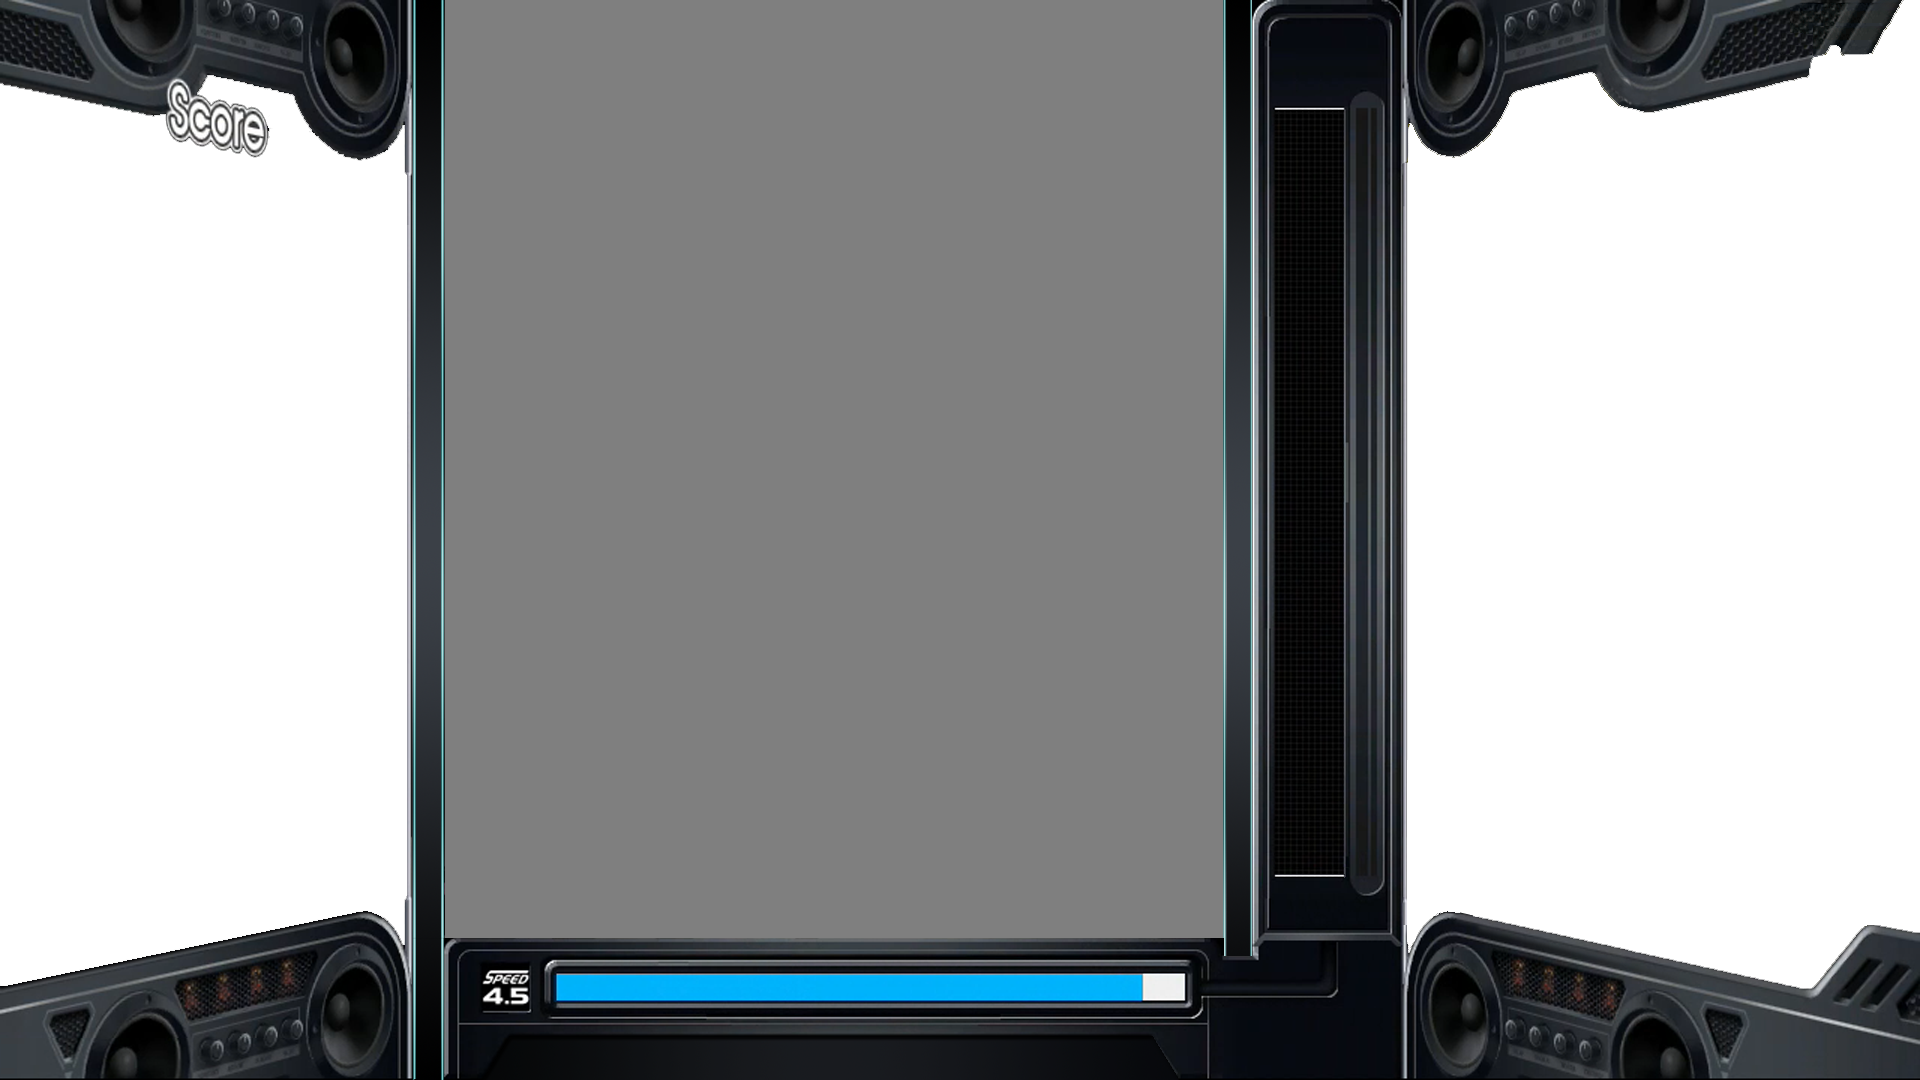
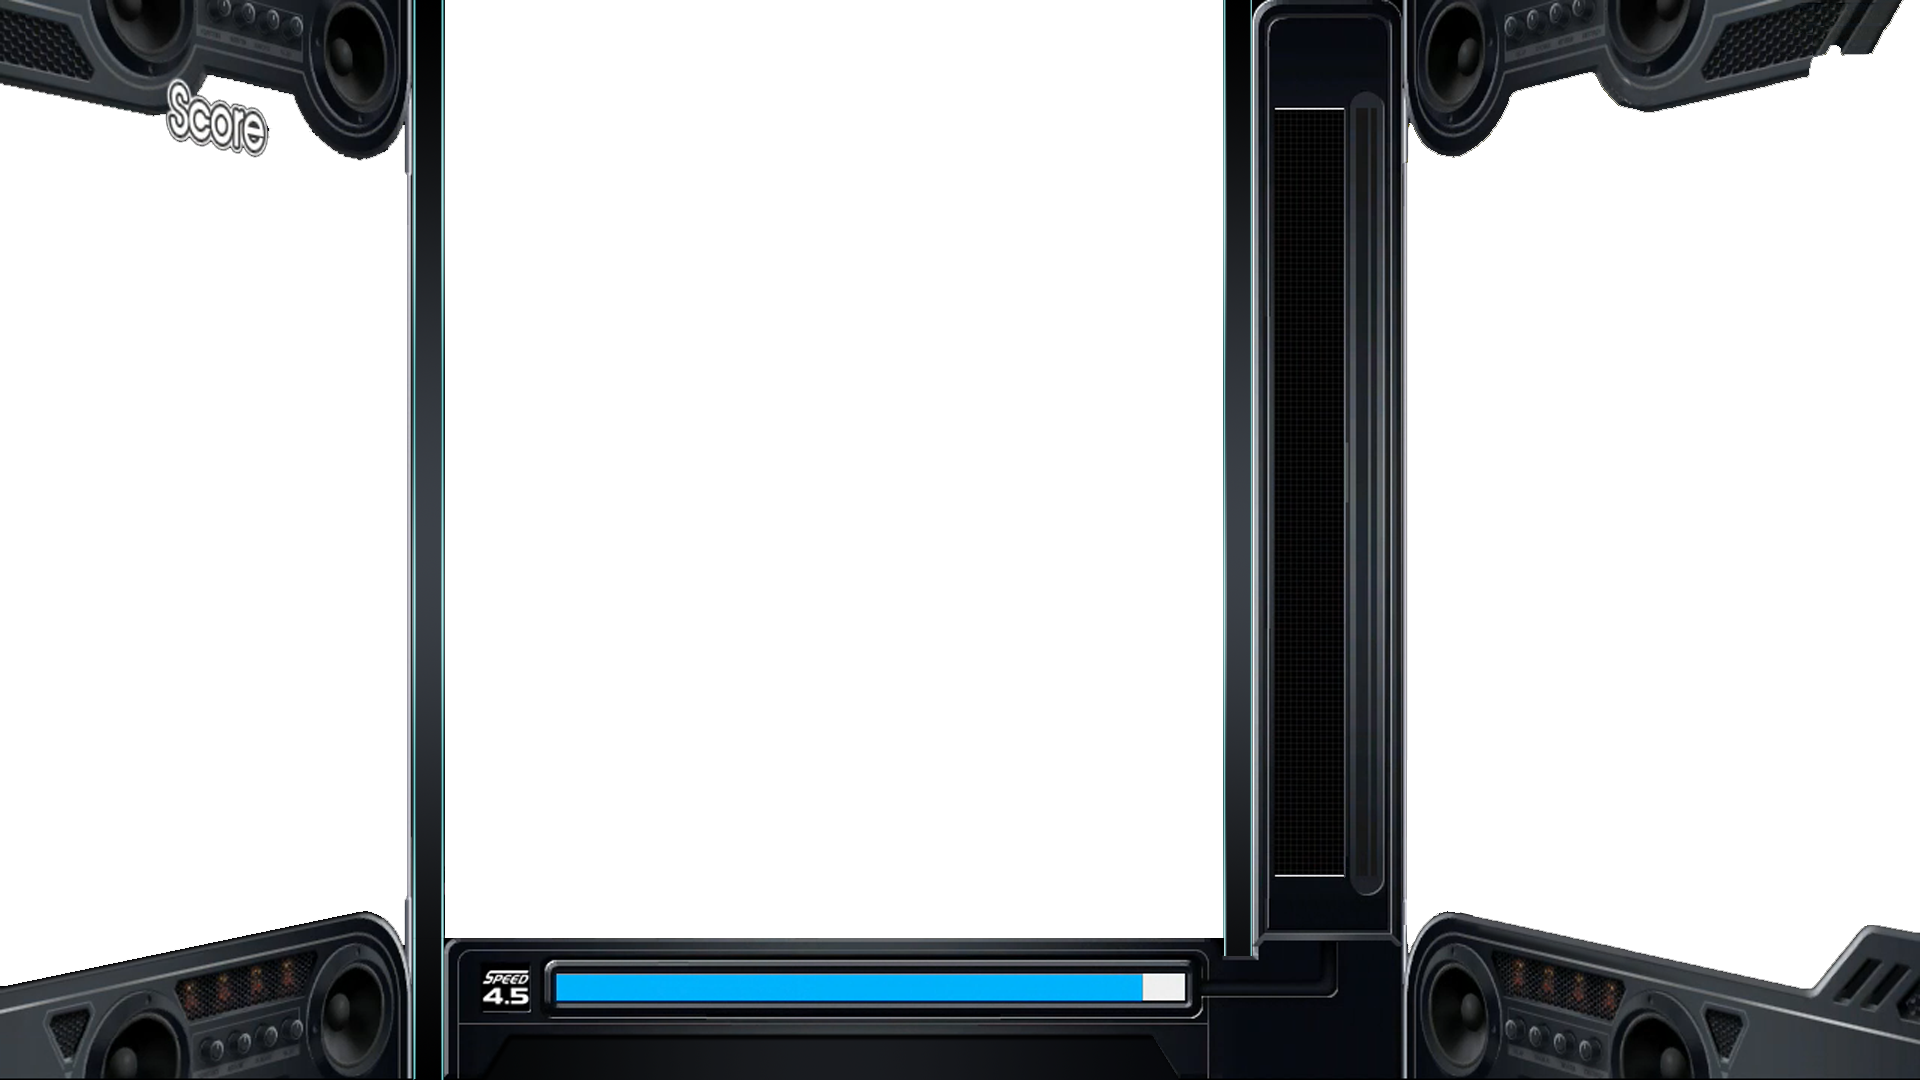
ドラムパッドがフレームの上に表示されていたミスを修正。

diff --git a/DTXmatixx/ステージ/演奏/演奏ステージ.cs b/DTXmatixx/ステージ/演奏/演奏ステージ.cs
@@ -301,10 +301,10 @@ namespace DTXmatixx.ステージ.演奏
 						this._右サイドクリアパネル.クリアする( gd );
 						this._右サイドクリアパネル.描画する( gd );
 
-						this._背景画像.描画する( gd, 0f, 0f );
-						this._演奏位置パネル.進行描画する( gd );
 						this._レーンフレーム.描画する( gd );
 						this._ドラムパッド.進行描画する( gd );
+						this._背景画像.描画する( gd, 0f, 0f );
+						this._演奏位置パネル.進行描画する( gd );
 						this._曲名パネル.描画する( gd );
 						this._ヒットバーを描画する( gd );
 						this._キャプチャ画面を描画する( gd, ( 1.0f - this._フェードインカウンタ.現在値の割合 ) );
@@ -389,15 +389,14 @@ namespace DTXmatixx.ステージ.演奏
 
 						this._レーンフラッシュ.進行描画する( gd );
 
-						this._小節線拍線を描画する( gd, 演奏時刻sec );
-						this._背景画像.描画する( gd, 0f, 0f );
-
 						double 曲の長さsec = App.演奏スコア.チップリスト[ App.演奏スコア.チップリスト.Count - 1 ].描画時刻sec;
 						this._演奏位置パネル.現在位置 = (float) ( 1.0 - ( 曲の長さsec - 演奏時刻sec ) / 曲の長さsec );
 						this._演奏位置パネル.進行描画する( gd );
 
+						this._小節線拍線を描画する( gd, 演奏時刻sec );
 						this._レーンフレーム.描画する( gd );
 						this._ドラムパッド.進行描画する( gd );
+						this._背景画像.描画する( gd, 0f, 0f );
 						this._曲名パネル.描画する( gd );
 						this._ヒットバーを描画する( gd );
 						this._チップを描画する( gd, 演奏時刻sec );

diff --git a/DTXmatixx/ステージ/結果/結果ステージ.cs b/DTXmatixx/ステージ/結果/結果ステージ.cs
@@ -52,7 +52,7 @@ namespace DTXmatixx.ステージ.結果
 				Debug.Assert( null != 選択曲 );
 
 				this._曲名画像.表示文字列 = 選択曲.タイトル;
-
+				this._黒マスクブラシ = new SolidColorBrush( gd.D2DDeviceContext, new Color4( Color3.Black, 0.75f ) );
 				this._プレビュー枠ブラシ = new SolidColorBrush( gd.D2DDeviceContext, new Color4( 0xFF209292 ) );
 				this.現在のフェーズ = フェーズ.表示;
 				this._初めての進行描画 = true;
@@ -62,6 +62,7 @@ namespace DTXmatixx.ステージ.結果
 		{
 			using( Log.Block( FDKUtilities.現在のメソッド名 ) )
 			{
+				FDKUtilities.解放する( ref this._黒マスクブラシ );
 				FDKUtilities.解放する( ref this._プレビュー枠ブラシ );
 			}
 		}
@@ -75,6 +76,9 @@ namespace DTXmatixx.ステージ.結果
 			}
 
 			this._背景.進行描画する( gd );
+			gd.D2DBatchDraw( ( dc ) => {
+				dc.FillRectangle( new RectangleF( 0f, 36f, gd.設計画面サイズ.Width, gd.設計画面サイズ.Height - 72f ), this._黒マスクブラシ );
+			} );
 			this._プレビュー画像を描画する( gd );
 			this._曲名パネル.描画する( gd, 660f, 796f );
 			this._曲名を描画する( gd );
@@ -108,6 +112,7 @@ namespace DTXmatixx.ステージ.結果
 		private 画像 _曲名パネル = null;
 		private 文字列画像 _曲名画像 = null;
 		private 演奏パラメータ結果 _演奏パラメータ結果 = null;
+		private SolidColorBrush _黒マスクブラシ = null;
 
 		private SolidColorBrush _プレビュー枠ブラシ = null;
 		private readonly Vector3 _プレビュー画像表示位置dpx = new Vector3( 668f, 194f, 0f );

diff --git a/DTXmatixx/ステージ/演奏/レーンフレーム.cs b/DTXmatixx/ステージ/演奏/レーンフレーム.cs
@@ -68,6 +68,7 @@ namespace DTXmatixx.ステージ.演奏
 			using( Log.Block( FDKUtilities.現在のメソッド名 ) )
 			{
 				this._レーン色ブラシ = new SolidColorBrush( gd.D2DDeviceContext, new Color4( 0xff5d5d5d ) );
+				this._レーンエリア色ブラシ = new SolidColorBrush( gd.D2DDeviceContext, new Color4( 0f, 0f, 0f, 0.5f ) );
 			}
 		}
 		protected override void On非活性化( グラフィックデバイス gd )
@@ -75,12 +76,16 @@ namespace DTXmatixx.ステージ.演奏
 			using( Log.Block( FDKUtilities.現在のメソッド名 ) )
 			{
 				FDKUtilities.解放する( ref this._レーン色ブラシ );
+				FDKUtilities.解放する( ref this._レーンエリア色ブラシ );
 			}
 		}
 
 		public void 描画する( グラフィックデバイス gd )
 		{
 			gd.D2DBatchDraw( ( dc ) => {
+
+				// レーンエリアを描画する。
+				dc.FillRectangle( new RectangleF( 445f, 0f, 778f, 938f ), this._レーンエリア色ブラシ );
 
 				// レーンラインを描画する。
 				for( int i = 0; i < _レーンライン.Length; i++ )
@@ -113,5 +118,6 @@ namespace DTXmatixx.ステージ.演奏
 		};
 
 		private SolidColorBrush _レーン色ブラシ = null;
+		private SolidColorBrush _レーンエリア色ブラシ = null;
 	}
 }

diff --git a/DTXmatixx/App.cs b/DTXmatixx/App.cs
@@ -398,11 +398,22 @@ namespace DTXmatixx
 						}
 						//----------------
 						#endregion
-						#region " クリア時フェードアウト → 結果ステージへ "
+						#region " クリア → 結果ステージへ "
 						//----------------
 						if( stage.現在のフェーズ == ステージ.演奏.演奏ステージ.フェーズ.クリア )
 						{
 							App.ステージ管理.ステージを遷移する( gd, nameof( ステージ.結果.結果ステージ ) );
+						}
+						//----------------
+						#endregion
+						break;
+
+					case ステージ.結果.結果ステージ stage:
+						#region " 確定 → 選曲ステージへ "
+						//----------------
+						if( stage.現在のフェーズ == ステージ.結果.結果ステージ.フェーズ.確定 )
+						{
+							App.ステージ管理.ステージを遷移する( gd, nameof( ステージ.選曲.選曲ステージ ) );
 						}
 						//----------------
 						#endregion
